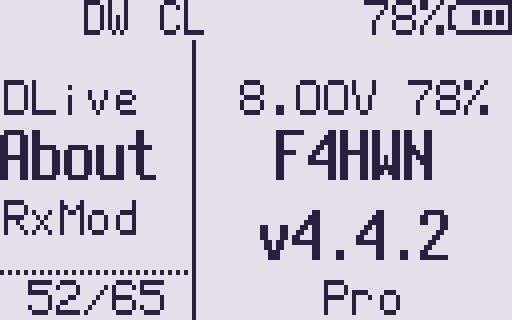
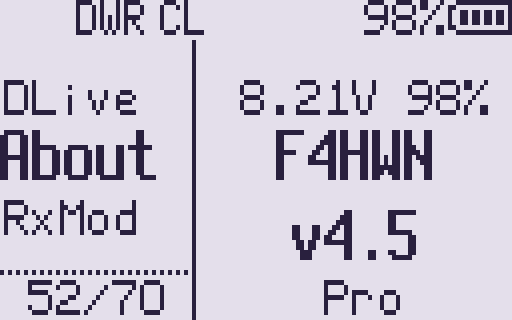
docs(readme): update firmware sizes and driver references for v4.5
Updated the size tables to accurately reflect the new memory footprints across all variants following the recent flash and RAM optimizations. Also updated the Chirp driver documentation link to point to the newly renamed v4.5 python script.

diff --git a/README.md b/README.md
@@ -5,7 +5,7 @@ This repository is a fork of the [Original F4HWN firmware](https://github.com/ar
 All is a cloned and customized version of DualTachyon's open firmware found [here](https://github.com/DualTachyon/uv-k5-firmware) ... a cool achievement !
 
 > [!NOTE]
-> About Chirp, as many others firmwares, you need to use a dedicated driver available in [this repository](https://github.com/nicodotgit/uv-k5-firmware-custom/blob/main/uvk5_egz_f4hwn_ndg_ver_4_4_2.py).
+> About Chirp, as many others firmwares, you need to use a dedicated driver available in [this repository](https://github.com/nicodotgit/uv-k5-firmware-custom/blob/main/uvk5_egz_f4hwn_ndg_ver_4_5.py).
 
 > [!WARNING]
 > THIS FIRMWARE HAS NO REAL BRAIN. PLEASE USE YOUR OWN. Use this firmware at your own risk (entirely). There is absolutely no guarantee that it will work in any way shape or form on your radio(s), it may even brick your radio(s), in which case, you'd need to buy another radio.
@@ -44,12 +44,12 @@ Several firmware versions are available, each tailored to a specific use case be
 
 | Edition | Build Size & Space | Key Features |
 |---------|--------------------|--------------|
-| 🧰 **[Pro (Custom)](https://armel.github.io/uvtools/?firmwareURL=https://github.com/nicodotgit/uv-k5-firmware-custom/raw/main/archive/latest/f4hwn.pro.packed.bin)** | **Size:** 61,436 bytes<br>**Free:** 4 bytes | ✅ FM Broadcast<br>✅ Bandscope<br>✅ K5 Viewer<br>🚫 VOX / Air Copy<br>✅ All other features enabled |
-| 📺 **[Bandscope edition](https://armel.github.io/uvtools/?firmwareURL=https://github.com/nicodotgit/uv-k5-firmware-custom/raw/main/archive/latest/f4hwn.bandscope.packed.bin)** | **Size:** 60,796 bytes<br>**Free:** 644 bytes | ✅ Bandscope<br>🚫 FM Broadcast<br>🚫 VOX<br>✅ Air Copy<br>✅ K5 Viewer<br>✅ All other features enabled |
-| 📻 **[Broadcast edition](https://armel.github.io/uvtools/?firmwareURL=https://github.com/nicodotgit/uv-k5-firmware-custom/raw/main/archive/latest/f4hwn.broadcast.packed.bin)** | **Size:** 59,044 bytes<br>**Free:** 2,396 bytes | ✅ FM Broadcast<br>🚫 Bandscope<br>✅ VOX<br>✅ Air Copy<br>✅ K5 Viewer<br>✅ All other features enabled |
-| 🚨 **[RescueOps edition](https://armel.github.io/uvtools/?firmwareURL=https://github.com/nicodotgit/uv-k5-firmware-custom/raw/main/archive/latest/f4hwn.rescueops.packed.bin)** | **Size:** 56,708 bytes<br>**Free:** 4,732 bytes | ✅ First responder oriented<br>🚫 FM Broadcast<br>🚫 Bandscope<br>✅ VOX<br>✅ Air Copy<br>✅ K5 Viewer<br>✅ NOAA weather<br>✅ All other features enabled |
-| ☘ **[Basic edition](https://armel.github.io/uvtools/?firmwareURL=https://github.com/nicodotgit/uv-k5-firmware-custom/raw/main/archive/latest/f4hwn.basic.packed.bin)** | **Size:** 60,828 bytes<br>**Free:** 612 bytes | ✅ FM Broadcast<br>✅ Bandscope *(simplified)*<br>🚫 VOX<br>🚫 Air Copy<br>🚫 K5 Viewer<br><br>*Some features had to be disabled because of limited available memory...*<br><br>🚫 Audio Bar<br>🚫 CTR/Contrast Menu<br>🚫 Resume State<br>🚫 Charging C |
-| 🎮 **[Game edition](https://armel.github.io/uvtools/?firmwareURL=https://github.com/nicodotgit/uv-k5-firmware-custom/raw/main/archive/latest/f4hwn.game.packed.bin)** | **Size:** 60,136 bytes<br>**Free:** 1,304 bytes | ✅ Built-in Breakout-style game<br>✅ FM Broadcast<br>🚫 Bandscope<br>🚫 VOX<br>✅ Air Copy<br>🚫 K5 Viewer<br>✅ All other features enabled |
+| 🧰 **[Pro](https://armel.github.io/uvtools/?firmwareURL=https://github.com/nicodotgit/uv-k5-firmware-custom/raw/main/archive/latest/f4hwn.pro.packed.bin)** | **Size:** 61,400 bytes<br>**Free:** 40 bytes | ✅ FM Broadcast<br>✅ Bandscope<br>✅ K5 Viewer<br>🚫 VOX / Air Copy<br>✅ All other features enabled |
+| 📺 **[Bandscope edition](https://armel.github.io/uvtools/?firmwareURL=https://github.com/nicodotgit/uv-k5-firmware-custom/raw/main/archive/latest/f4hwn.bandscope.packed.bin)** | **Size:** 60,860 bytes<br>**Free:** 580 bytes | ✅ Bandscope<br>🚫 FM Broadcast<br>🚫 VOX<br>✅ Air Copy<br>✅ K5 Viewer<br>✅ All other features enabled |
+| 📻 **[Broadcast edition](https://armel.github.io/uvtools/?firmwareURL=https://github.com/nicodotgit/uv-k5-firmware-custom/raw/main/archive/latest/f4hwn.broadcast.packed.bin)** | **Size:** 58,996 bytes<br>**Free:** 2,444 bytes | ✅ FM Broadcast<br>🚫 Bandscope<br>✅ VOX<br>✅ Air Copy<br>✅ K5 Viewer<br>✅ All other features enabled |
+| 🚨 **[RescueOps edition](https://armel.github.io/uvtools/?firmwareURL=https://github.com/nicodotgit/uv-k5-firmware-custom/raw/main/archive/latest/f4hwn.rescueops.packed.bin)** | **Size:** 56,836 bytes<br>**Free:** 4,604 bytes | ✅ First responder oriented<br>🚫 FM Broadcast<br>🚫 Bandscope<br>✅ VOX<br>✅ Air Copy<br>✅ K5 Viewer<br>✅ NOAA weather<br>✅ All other features enabled |
+| ☘ **[Basic edition](https://armel.github.io/uvtools/?firmwareURL=https://github.com/nicodotgit/uv-k5-firmware-custom/raw/main/archive/latest/f4hwn.basic.packed.bin)** | **Size:** 60,908 bytes<br>**Free:** 532 bytes | ✅ FM Broadcast<br>✅ Bandscope *(simplified)*<br>🚫 VOX<br>🚫 Air Copy<br>🚫 K5 Viewer<br><br>*Some features had to be disabled because of limited available memory...*<br><br>🚫 Audio Bar<br>🚫 CTR/Contrast Menu<br>🚫 Resume State<br>🚫 Charging C |
+| 🎮 **[Game edition](https://armel.github.io/uvtools/?firmwareURL=https://github.com/nicodotgit/uv-k5-firmware-custom/raw/main/archive/latest/f4hwn.game.packed.bin)** | **Size:** 60,084 bytes<br>**Free:** 1,356 bytes | ✅ Built-in Breakout-style game<br>✅ FM Broadcast<br>🚫 Bandscope<br>🚫 VOX<br>✅ Air Copy<br>🚫 K5 Viewer<br>✅ All other features enabled |
 
 ## Custom changes on this fork
 
